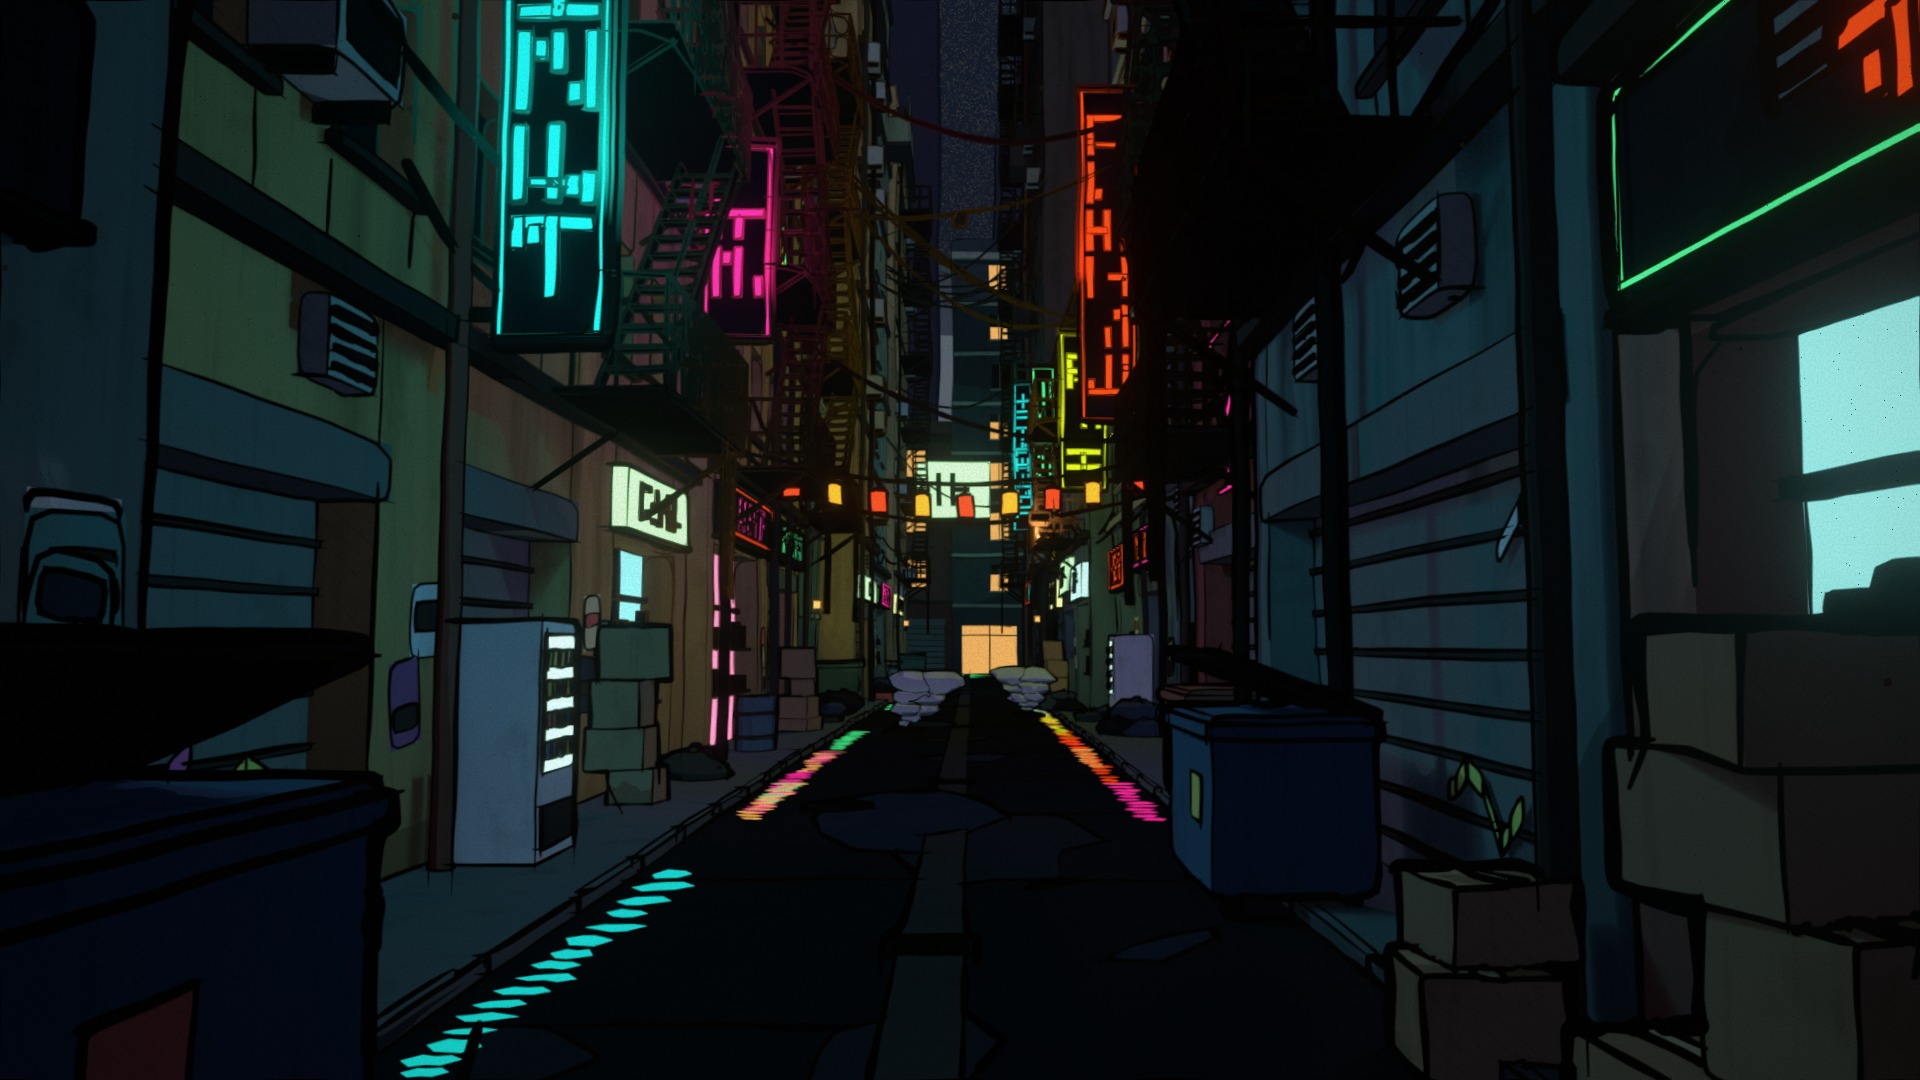
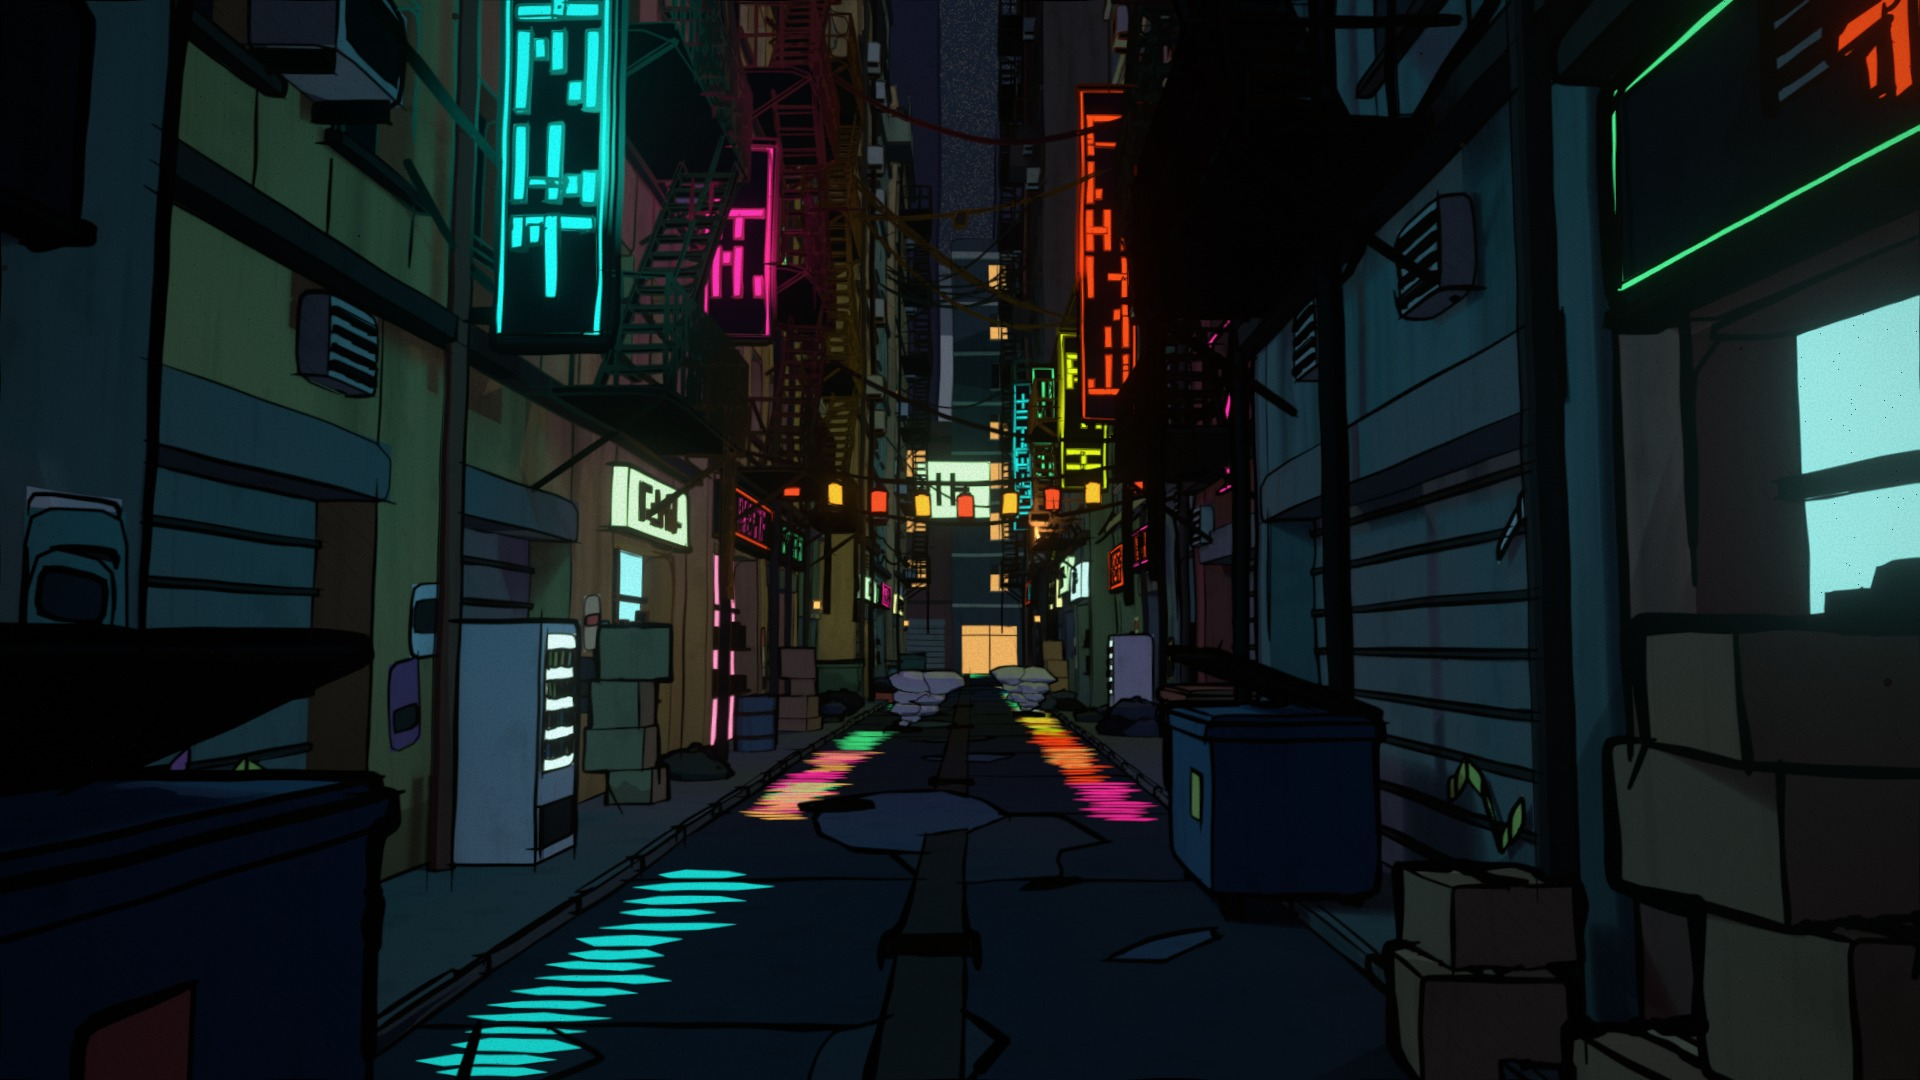
Keep ink strokes unlit; refresh heroes and handoff status

diff --git a/procedural_worlds/ink.py b/procedural_worlds/ink.py
@@ -385,7 +385,7 @@ def add_outlines(col, seed, radius, line_scale=1.0):
                                           use_loose=True, crease_threshold=math.radians(128))),
             ("Silhouette", heavy, r, dict(use_contour=True, use_crease=False, use_intersection=False,
                                          use_loose=False, silhouette_filtering="INDIVIDUAL"))):
-        gp.layers.new(lname)
+        gp.layers.new(lname).use_lights = False     # ink is never lit (lamps tinted it brown)
         la = obj.modifiers.new(f"PW_LA_{lname}", "LINEART")
         la.source_type = "COLLECTION"
         la.source_collection = col

diff --git a/procedural_worlds/scene_island.py b/procedural_worlds/scene_island.py
@@ -362,6 +362,7 @@ def gulls(col, center, rng, n, span):
         m.grease_pencil.color = (*INK, 1)
     gp.materials.append(m)
     layer = gp.layers.new("Gulls")
+    layer.use_lights = False
     dr = layer.frames.new(bpy.context.scene.frame_start).drawing
     dr.add_strokes([5] * n)
     pos = dr.attributes["position"].data
